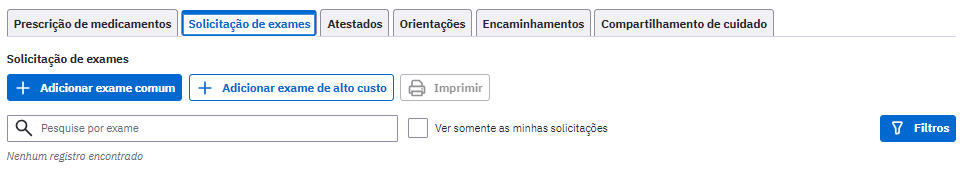
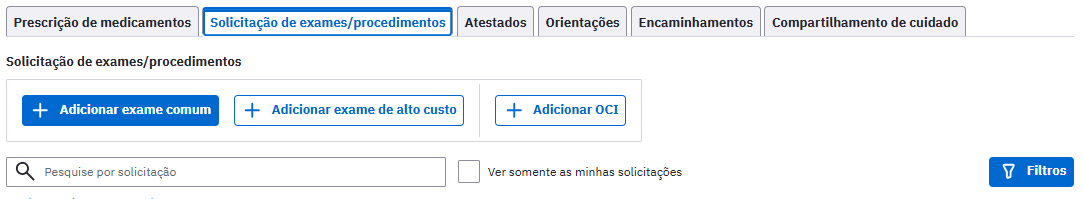
requisição de exames

diff --git a/docs/PEC/PEC_06_atendimentos.md b/docs/PEC/PEC_06_atendimentos.md
@@ -1176,7 +1176,7 @@ Fonte: SAPS/MS.
 
 Nesta ferramenta, é possível solicitar exames para o cidadão em atendimento e solicitar inclusão na Oferta de Cuidados Integrados (OCI). Exames cadastrados neste módulo irão ser incluídos no bloco "Objetivo" do registro de atendimento do SOAP, na parte de exames solicitados e/ou avaliados, após a finalização da consulta em que eles foram inseridos.
 
-Como podemos ver na Figura 6.4.17 há duas opções para solicitação de exames:
+Como podemos ver na Figura 6.4.17 há três opções para solicitação de exames:
 
 Figura 6.4.17 - SOAP - Plano - exames
 
@@ -1216,6 +1216,9 @@ Fonte: SAPS/MS.
 
 
 Esta é uma alternativa que agiliza a requisição de exames, visto que são apresentados combos de exames previamente selecionados para cada condição (gestante 1º, 2º e 3º trimestre, além dos exames de risco cardiovascular). Clique na opção ![](media/pec_image431.png) \"Adicionar\" para incluir um grupo de exames, ao clicar aparecerá uma lista de exames. Em seguida siga os passos:
+
+{: .nota }
+Os grupos de exames podem ser adicionador pelo administrador municipal.
 
 - Passo 1. Caso o profissional queira adicionar outros exames além dos apresentados na lista de cada grupo, basta adicionar no campo "Exame";
 
